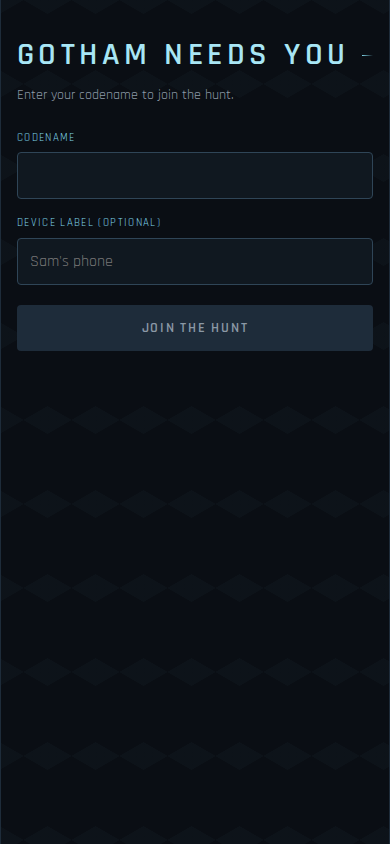
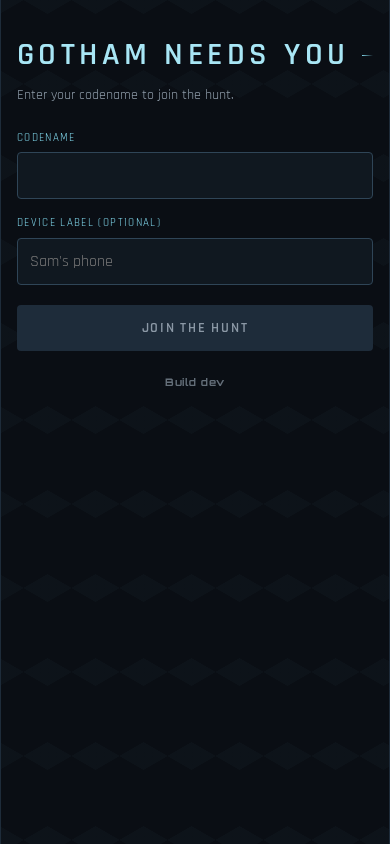
Name the running build in the frontend
Players and moderators see the web bundle's build id in small print; the
host console compares it with the server's release and schema from readyz
and offers a reload when the page is older. The server's release stays
behind admin sign-in (ADR 0041).

diff --git a/web/src/screens/Admin.test.jsx b/web/src/screens/Admin.test.jsx
@@ -8,17 +8,19 @@ const mocks = vi.hoisted(() => ({
     adminPlayers: vi.fn(),
     adminLogin: vi.fn(),
     adminLogout: vi.fn(),
+    adminReadyz: vi.fn(),
   },
 }));
 
 vi.mock('../api', () => ({ api: mocks.api }));
 
-import { AdminScreen } from './Admin';
+import { AdminScreen, AdminVersion } from './Admin';
 
 describe('admin console shell', () => {
   beforeEach(() => {
     mocks.api.adminLogin.mockResolvedValue({ ok: true });
     mocks.api.adminLogout.mockResolvedValue({ ok: true });
+    mocks.api.adminReadyz.mockResolvedValue({ release: 'dev', schema_version: 5 });
     mocks.api.adminPlayers.mockResolvedValue([]);
   });
 
@@ -128,5 +130,41 @@ describe('admin console shell', () => {
     ).toBeTruthy();
     expect(screen.queryByLabelText('Password')).toBeNull();
     expect(screen.getByRole('button', { name: 'Try again' })).toBeTruthy();
+  });
+});
+
+// ADR 0041: the host sees which build runs where, and is told to reload a
+// page older than the server.
+describe('admin version footer', () => {
+  it('shows the web build, server release and schema', async () => {
+    mocks.api.adminReadyz.mockResolvedValue({ release: 'abc1234', schema_version: 5 });
+    render(<AdminVersion build="abc1234" />);
+    expect(screen.getByText('Web abc1234')).toBeTruthy();
+    expect(await screen.findByText('Server abc1234')).toBeTruthy();
+    expect(screen.getByText('Schema 5')).toBeTruthy();
+    expect(screen.queryByRole('status')).toBeNull();
+  });
+
+  it('warns when the page is an older build than the server', async () => {
+    mocks.api.adminReadyz.mockResolvedValue({ release: 'new5678', schema_version: 5 });
+    render(<AdminVersion build="old1234" />);
+    const warning = await screen.findByRole('status');
+    expect(warning.textContent).toContain('older build than the server');
+    expect(within(warning).getByRole('button', { name: 'Reload' })).toBeTruthy();
+  });
+
+  it('does not warn when the server does not know its release', async () => {
+    mocks.api.adminReadyz.mockResolvedValue({ release: 'unknown', schema_version: 5 });
+    render(<AdminVersion build="dev" />);
+    expect(await screen.findByText('Server unknown')).toBeTruthy();
+    expect(screen.queryByRole('status')).toBeNull();
+  });
+
+  it('keeps the web build when readyz fails', async () => {
+    mocks.api.adminReadyz.mockResolvedValue({ error: 'network', message: 'offline' });
+    render(<AdminVersion build="abc1234" />);
+    await waitFor(() => expect(mocks.api.adminReadyz).toHaveBeenCalled());
+    expect(screen.getByText('Web abc1234')).toBeTruthy();
+    expect(screen.queryByText(/^Server/)).toBeNull();
   });
 });

diff --git a/web/src/screens/Admin.jsx b/web/src/screens/Admin.jsx
@@ -14,6 +14,7 @@
 import { useEffect, useState } from 'preact/hooks';
 
 import { api } from '../api';
+import { WEB_BUILD } from '../version';
 import { AdminEvents } from './AdminEvents';
 import { AdminHost } from './AdminHost';
 import { AdminRiddles } from './AdminRiddles';
@@ -129,7 +130,50 @@ function Shell({ children, signedIn = false }) {
         )}
       </header>
       <main class="admin-main">{children}</main>
+      {signedIn && <AdminVersion />}
     </div>
+  );
+}
+
+// Which build is running where (ADR 0041). The page's own build is baked
+// into the bundle; the server's release and schema come from readyz, which
+// is admin-only so the release is never a public fingerprint. A page left
+// open across a deploy keeps its old bundle, and the service worker cannot
+// swap code under a running page, so the mismatch is the host's cue to
+// reload. A failed readyz leaves just the page's build: this line is
+// informational and must not block the console.
+export function AdminVersion({ build = WEB_BUILD }) {
+  const [server, setServer] = useState(null);
+
+  useEffect(() => {
+    let live = true;
+    api.adminReadyz().then((result) => {
+      if (live && result && !result.error && !result.unauthenticated) setServer(result);
+    });
+    return () => {
+      live = false;
+    };
+  }, []);
+
+  const stale = server && server.release !== 'unknown' && server.release !== build;
+  return (
+    <footer class="admin-version">
+      <span>Web {build}</span>
+      {server && (
+        <>
+          <span>Server {server.release}</span>
+          <span>Schema {server.schema_version}</span>
+        </>
+      )}
+      {stale && (
+        <span class="admin-version-stale" role="status">
+          This page is an older build than the server.{' '}
+          <button class="admin-btn secondary" onClick={() => window.location.reload()}>
+            Reload
+          </button>
+        </span>
+      )}
+    </footer>
   );
 }
 

diff --git a/web/src/components/BuildTag.test.jsx b/web/src/components/BuildTag.test.jsx
@@ -1,0 +1,18 @@
+import { render, screen } from '@testing-library/preact';
+import { describe, expect, it } from 'vitest';
+
+import { WEB_BUILD } from '../version';
+import { BuildTag } from './BuildTag';
+
+describe('build tag (ADR 0041)', () => {
+  it('names the build it is given', () => {
+    render(<BuildTag build="37486df" />);
+    expect(screen.getByText('Build 37486df')).toBeTruthy();
+  });
+
+  it('defaults to the bundle build, "dev" when none was baked in', () => {
+    render(<BuildTag />);
+    expect(screen.getByText(`Build ${WEB_BUILD}`)).toBeTruthy();
+    expect(WEB_BUILD).toBe(import.meta.env.VITE_ERROR_RELEASE || 'dev');
+  });
+});

diff --git a/web/src/screens/ModConsole.jsx b/web/src/screens/ModConsole.jsx
@@ -18,6 +18,7 @@ import { useCallback, useEffect, useState } from 'preact/hooks';
 
 import '../mod-console.css';
 import { api } from '../api';
+import { BuildTag } from '../components/BuildTag';
 import { subscribeDeltas } from '../store';
 import { ConductPanel } from './mod/ConductPanel';
 import { DecisionPanel } from './mod/DecisionPanel';
@@ -232,6 +233,7 @@ export function ModConsoleScreen({ copy, moderatorId = null }) {
           </div>
         )}
         <QueueList queue={queue} openId={openId} onOpen={open} moderatorId={moderatorId} />
+        <BuildTag />
       </aside>
 
       {view === 'teams' ? (

diff --git a/web/src/api.js b/web/src/api.js
@@ -209,6 +209,9 @@ export const api = {
       reportUnauthorized: true,
     }),
   adminLogout: () => request('/api/admin/logout', { method: 'POST' }),
+  // The operator's readiness body; the host console reads its release and
+  // schema version to compare with the page's own build (ADR 0041).
+  adminReadyz: () => request('/api/admin/readyz'),
   // ── Admin event management (S9CY) ──
   // These keep the default 401 handling on purpose: they are only called
   // from behind the console, so a 401 means the admin session died and

diff --git a/web/src/screens/Join.jsx b/web/src/screens/Join.jsx
@@ -10,6 +10,7 @@
 // new player with an empty drawer, so rejoining is one tap instead.
 import { useEffect, useState } from 'preact/hooks';
 
+import { BuildTag } from '../components/BuildTag';
 import { InstallHint } from '../components/InstallHint';
 import { join, resumableGames, resume } from '../store';
 import { DEFAULT_THEME, loadTheme } from '../theme';
@@ -152,6 +153,7 @@ export function JoinScreen() {
             {c.submit}
           </button>
         </form>
+        <BuildTag />
       </main>
     </div>
   );

diff --git a/web/src/admin.css b/web/src/admin.css
@@ -597,3 +597,21 @@ body:has(.admin-shell) {
     overflow-wrap: anywhere;
   }
 }
+
+/* Web build, server release and schema (ADR 0041). */
+.admin-version {
+  display: flex;
+  flex-wrap: wrap;
+  gap: 8px 16px;
+  align-items: center;
+  max-width: 900px;
+  margin: 0 auto;
+  padding: 8px 24px 24px;
+  color: var(--admin-dim);
+  font-size: 0.75rem;
+  font-variant-numeric: tabular-nums;
+}
+
+.admin-version-stale {
+  color: var(--admin-danger);
+}

diff --git a/web/src/version.js b/web/src/version.js
@@ -1,0 +1,8 @@
+// Which build of the web app this page is (ADR 0041).
+//
+// Vite inlines VITE_ERROR_RELEASE into the bundle at build time. It is the
+// same value the error reporter tags events with (errors.js), and the
+// container build already receives it from ARKHAM_RELEASE, so reading it
+// here needs no new build argument on any host. A local build without it
+// is "dev".
+export const WEB_BUILD = import.meta.env.VITE_ERROR_RELEASE || 'dev';

diff --git a/web/src/screens/Team.jsx b/web/src/screens/Team.jsx
@@ -14,6 +14,7 @@
 import { useEffect, useState } from 'preact/hooks';
 
 import { api } from '../api';
+import { BuildTag } from '../components/BuildTag';
 import { logout, refresh } from '../store';
 
 // Last-seen in minutes, or null when the member has never been seen. The
@@ -257,6 +258,7 @@ export function TeamScreen({ snapshot, copy }) {
           )}
         </div>
       </section>
+      <BuildTag />
     </main>
   );
 }

diff --git a/web/src/themes/arkham/theme.css b/web/src/themes/arkham/theme.css
@@ -499,3 +499,15 @@ button.list-row {
 }
 
 .list-row:last-child { border-bottom: none; }
+
+/* The web build id at the foot of a screen (ADR 0041): there for whoever
+   is asked "which version are you on", out of the way for everyone else. */
+.build-tag {
+  color: var(--text-dim);
+  font-family: var(--font-num);
+  font-size: 0.65rem;
+  letter-spacing: 0.08em;
+  opacity: 0.7;
+  text-align: center;
+  margin: 24px 0 8px;
+}

diff --git a/web/src/components/BuildTag.jsx b/web/src/components/BuildTag.jsx
@@ -1,0 +1,9 @@
+// The web build id, in small print at the foot of a screen (ADR 0041), so
+// whoever holds the phone can say which build they are on. Only the
+// client's own id: it is already public in the bundle, whereas the
+// server's release stays behind admin sign-in.
+import { WEB_BUILD } from '../version';
+
+export function BuildTag({ build = WEB_BUILD }) {
+  return <p class="build-tag">Build {build}</p>;
+}

diff --git a/docs/adr/0041-show-the-running-build.md b/docs/adr/0041-show-the-running-build.md
@@ -1,0 +1,68 @@
+# 0041. Show the running build, and keep the server's release for the host
+
+Date: 2026-09-24
+Status: accepted
+
+## Context
+
+Drew asked for version information in the frontend
+(TKT-01M3B0EWQAPS240GZX1TJF348G). Two questions come up during a party:
+"which build is this phone on?", after a deploy, and "is the page I have
+open the build the server is running?". The PWA keeps a page open for a
+long time, and a service worker cannot swap code under a running page, so
+a page opened before a deploy keeps its old bundle until it reloads.
+
+Two facts already existed:
+
+- The web bundle inlines `VITE_ERROR_RELEASE` at build time, for error
+  reports (ADR 0018). kobal's compose passes it from `ARKHAM_RELEASE`, so
+  the client's build id is already readable by anyone who loads the
+  JavaScript.
+- The server's release is deliberately not public. `GET /api/health`
+  answers only liveness and the schema version. `release` lives in
+  `GET /api/admin/readyz`, which requires the admin (ADR 0023), so that
+  the running build is not a fingerprint for a stranger to match against
+  known bugs.
+
+## Decision
+
+- `web/src/version.js` exports `WEB_BUILD`: `VITE_ERROR_RELEASE`, or
+  `dev` for a local build without it. It reuses the error reporter's
+  variable instead of adding a new one, so no host needs a new build
+  argument.
+- Players and moderators see `Build <id>` in small print at the foot of
+  the join screen, the player's Case screen and the moderator console's
+  queue rail (`components/BuildTag.jsx`). It is the client's id only.
+- The signed-in host console has a footer with the web build, the server
+  release and the schema version, read from `readyz`. When the server
+  names a release and it differs from the page's, the footer says the
+  page is an older build and offers Reload. If `readyz` fails, the footer
+  shows only the web build.
+- The server does not change. No public endpoint gains the release.
+
+## Alternatives considered
+
+- **A public `/api/version`**, compared on every client. It would let a
+  player's phone warn about a stale page too. It lost because it
+  publishes the server's release, which ADR 0023 keeps behind sign-in. A
+  network-first service worker makes a stale page rare for players
+  anyway: any reload fetches the new bundle.
+- **A dedicated `VITE_APP_VERSION` build argument**, or one computed with
+  `git rev-parse` in `vite.config.js`. The container build context
+  excludes `.git`, and a new argument would need kobal's compose changed.
+  The release the error reporter already carries is the same value.
+- **Showing the build on every player screen.** Considered and rejected
+  as clutter. The Case screen is where a player goes for their own
+  details, and the join screen is where someone lands before they have a
+  game.
+
+## Consequences
+
+- A build made without `VITE_ERROR_RELEASE` reads `dev`. The host footer
+  then warns only if the server names a real release, which is the case
+  where the page really is not the deployed bundle.
+- The build id shown to players is a short commit hash. It is the value
+  already in the bundle, so showing it reveals nothing new.
+- Tests: `components/BuildTag.test.jsx` covers the label and fallback.
+  `screens/Admin.test.jsx` covers the footer's match, mismatch, `unknown`
+  and failure cases.
